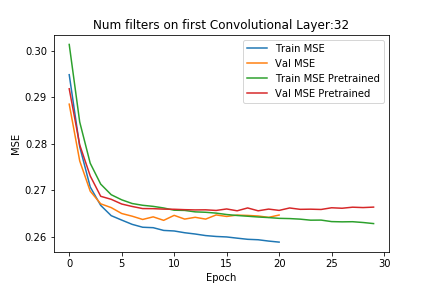
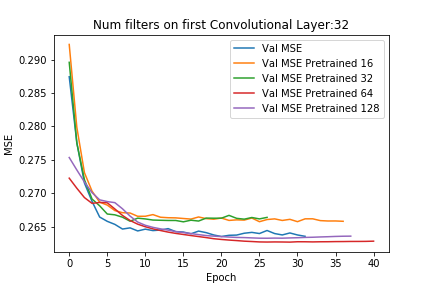
save files

diff --git a/pytorchCNN.py b/pytorchCNN.py
@@ -86,14 +86,14 @@ val_Y = Y[val_indices]
 
 epochs = 500
 
-num_features_selected = 32
+num_features_selected = 128
 filter_size = 6
 
 net = CNNnet(num_features_selected,filter_size).to(computing_device)
 net.apply(weights_init)
 
-#pretrained = True 
-pretrained = False 
+pretrained = True 
+#pretrained = False 
 if pretrained:
     features = np.load('LASSO_SelectedFeatures.npy')[:num_features_selected,2]
     matrices = []
@@ -108,7 +108,7 @@ print(net)
 criterion = nn.MSELoss()
 
 #Instantiate the gradient descent optimizer - use Adam optimizer with default parameters
-optimizer = optim.Adam(net.parameters(),lr = 0.0003)
+optimizer = optim.Adam(net.parameters(),lr = 0.005)
 
 print(train_X.shape,train_Y.shape,val_X.shape,val_Y.shape)
 data = [[],[]]
@@ -143,7 +143,7 @@ for e in range(epochs):
         loss.backward()
         optimizer.step()
         batch_count += 1
-    
+    print(net.main[0].weight[0]) 
     #train_result = evaluate(net,train_X,train_Y,computing_device)
     print('Epoch {}, Train Batch Loss: {}, '.format(e,train_loss/batch_count))
     data[0].append(train_loss/batch_count)
@@ -169,7 +169,7 @@ for e in range(epochs):
         print('\rEpoch {}, Val Loss: {}, Val R2 Score:{}'.format(e,val_loss/batch_count, val_result[1]))
         data[1].append(val_loss/batch_count)
         if pretrained:
-            np.save('results/pytorchResultsPretrainedFilters{}Size{}.npy'.format(num_features_selected,num_filters), np.array(data))
+            np.save('results/pytorchResultsPretrainedFilters{}Size{}.npy'.format(num_features_selected,filter_size), np.array(data))
         else:
             np.save('results/pytorchResultsFilters{}Size{}.npy'.format(num_features_selected,filter_size), np.array(data))
 
@@ -178,7 +178,7 @@ for e in range(epochs):
             best_val = val_loss/batch_count
             best_val_epoch = e
             if pretrained:
-                torch.save(net.state_dict(),'model_files/PretrainedFilters{}Size{}.pt'.format(num_features_selected,num_filters))
+                torch.save(net.state_dict(),'model_files/PretrainedFilters{}Size{}.pt'.format(num_features_selected,filter_size))
             else:
                 torch.save(net.state_dict(),'model_files/Filters{}Size{}.npy'.format(num_features_selected,filter_size))
         elif e  - best_val_epoch > 10:

diff --git a/model.py b/model.py
@@ -49,16 +49,16 @@ class CNNnet(nn.Module):
                         bias=False), 
 
             nn.ReLU(inplace=True),
-            nn.MaxPool1d(20), 
-            nn.BatchNorm1d(num_filt),
-            nn.Conv1d(num_filt, 
-                      num_filters[1], 
-                      filter_size[1],
-                      stride=stride[1], 
-                      padding=padding[1], 
-                      bias=False),
+            #nn.MaxPool1d(20), 
+            #nn.BatchNorm1d(num_filt),
+            #nn.Conv1d(num_filt, 
+            #          num_filters[1], 
+            #          filter_size[1],
+            #          stride=stride[1], 
+            #          padding=padding[1], 
+            #          bias=False),
 
-            nn.ReLU(inplace=True),
+            #nn.ReLU(inplace=True),
             #nn.Conv1d(num_filters[1],  
             #          num_filters[2], 
             #          filter_size[2], 
@@ -92,10 +92,10 @@ class CNNnet(nn.Module):
 
         # CNN Output Dim = (Size + 2 * padding - kernal_size)/Stride + 1
         self.fc = nn.Sequential(
-            nn.BatchNorm1d(num_filters[1]),
-            nn.Dropout(p=0.25),
+            #nn.BatchNorm1d(num_filters[0]),
+            #nn.Dropout(p=0.25),
             #nn.ReLU(inplace=True),
-            nn.Linear(num_filters[-1],1),
+            nn.Linear(num_filt,1),
         )
 
     def num_flat_features(self, inputs):
@@ -117,5 +117,5 @@ class CNNnet(nn.Module):
         x = torch.mean(x.view(x.size(0), x.size(1), -1), dim=2)
         #print(val,x[0,0])
         x = x.view(-1, self.num_flat_features(x))
-        return torch.sigmoid(self.fc(x))
+        return self.fc(x)
         #return torch.sigmoid(self.fc(x))
